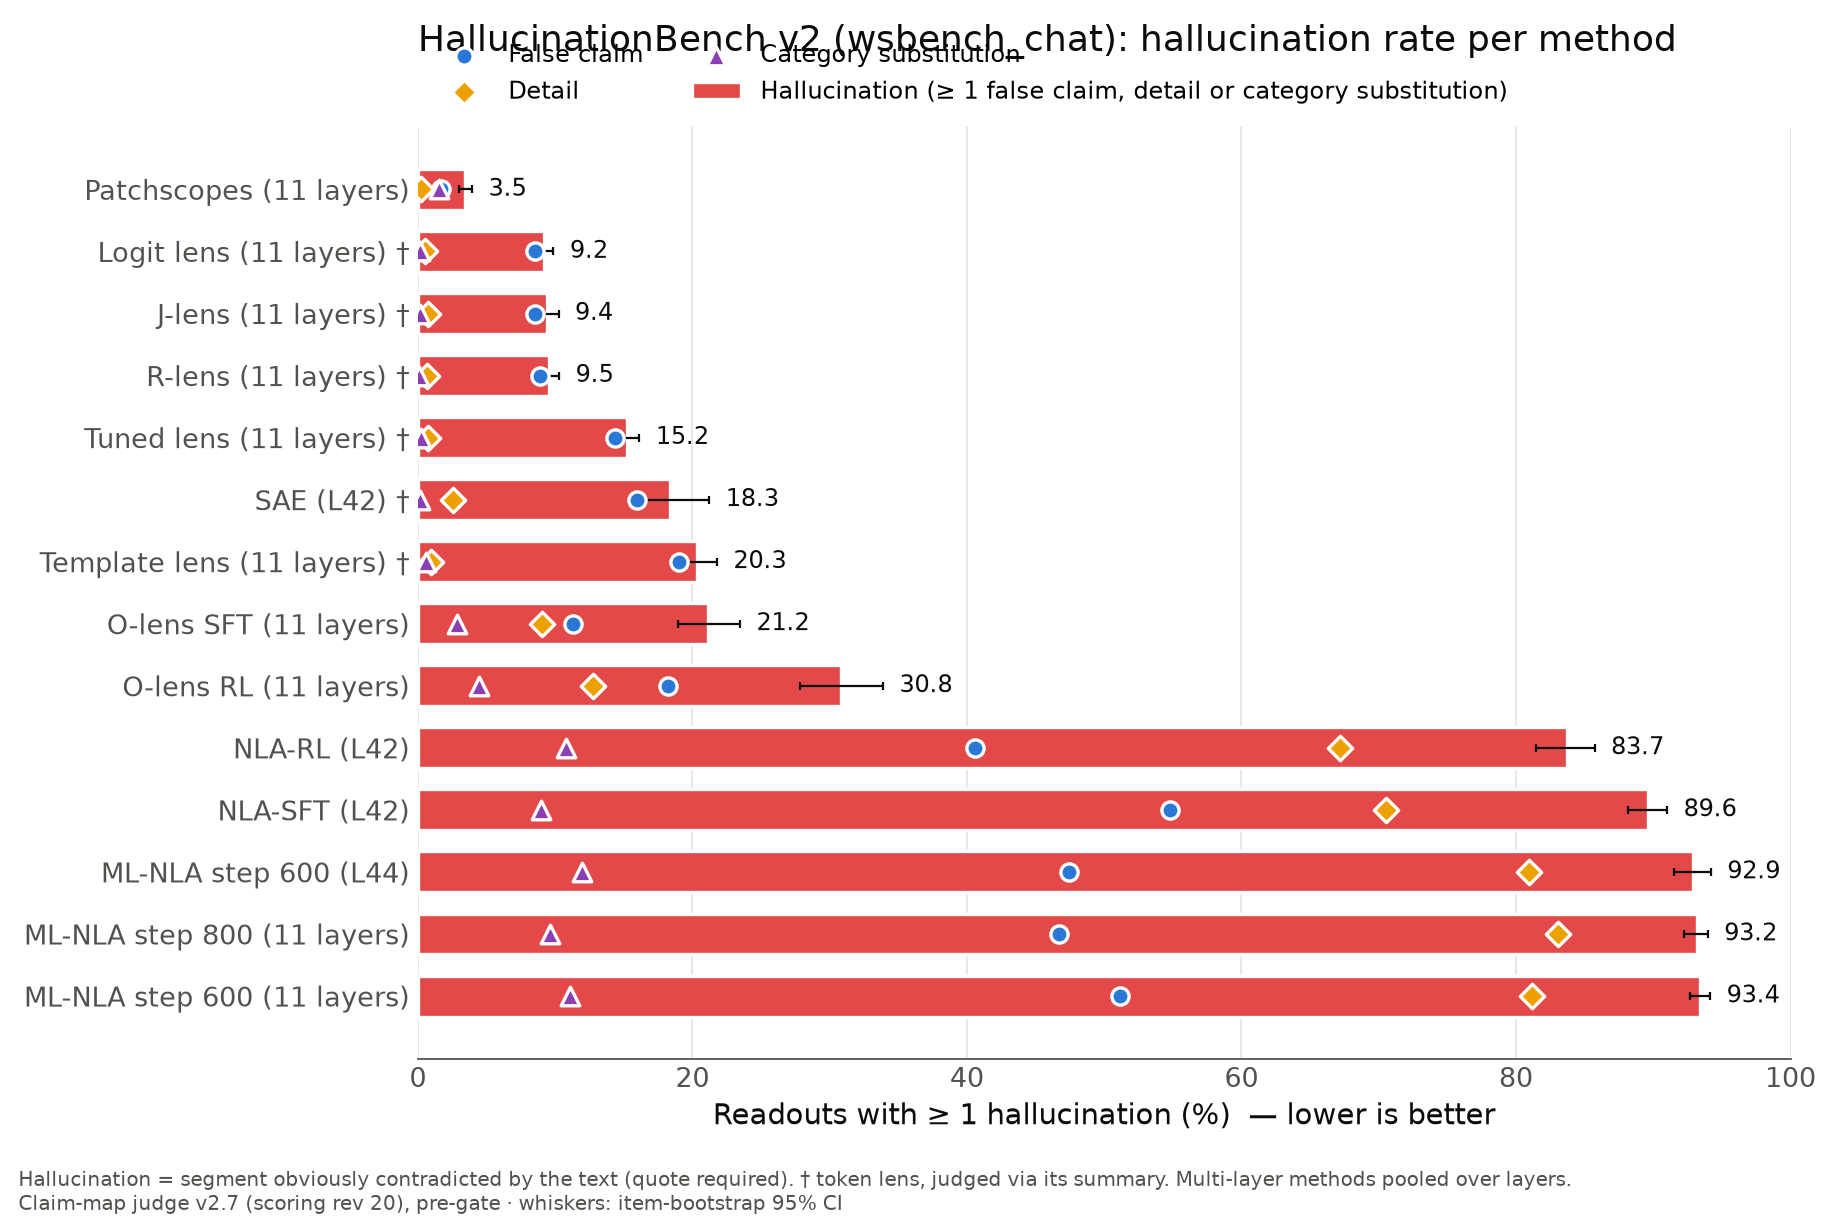
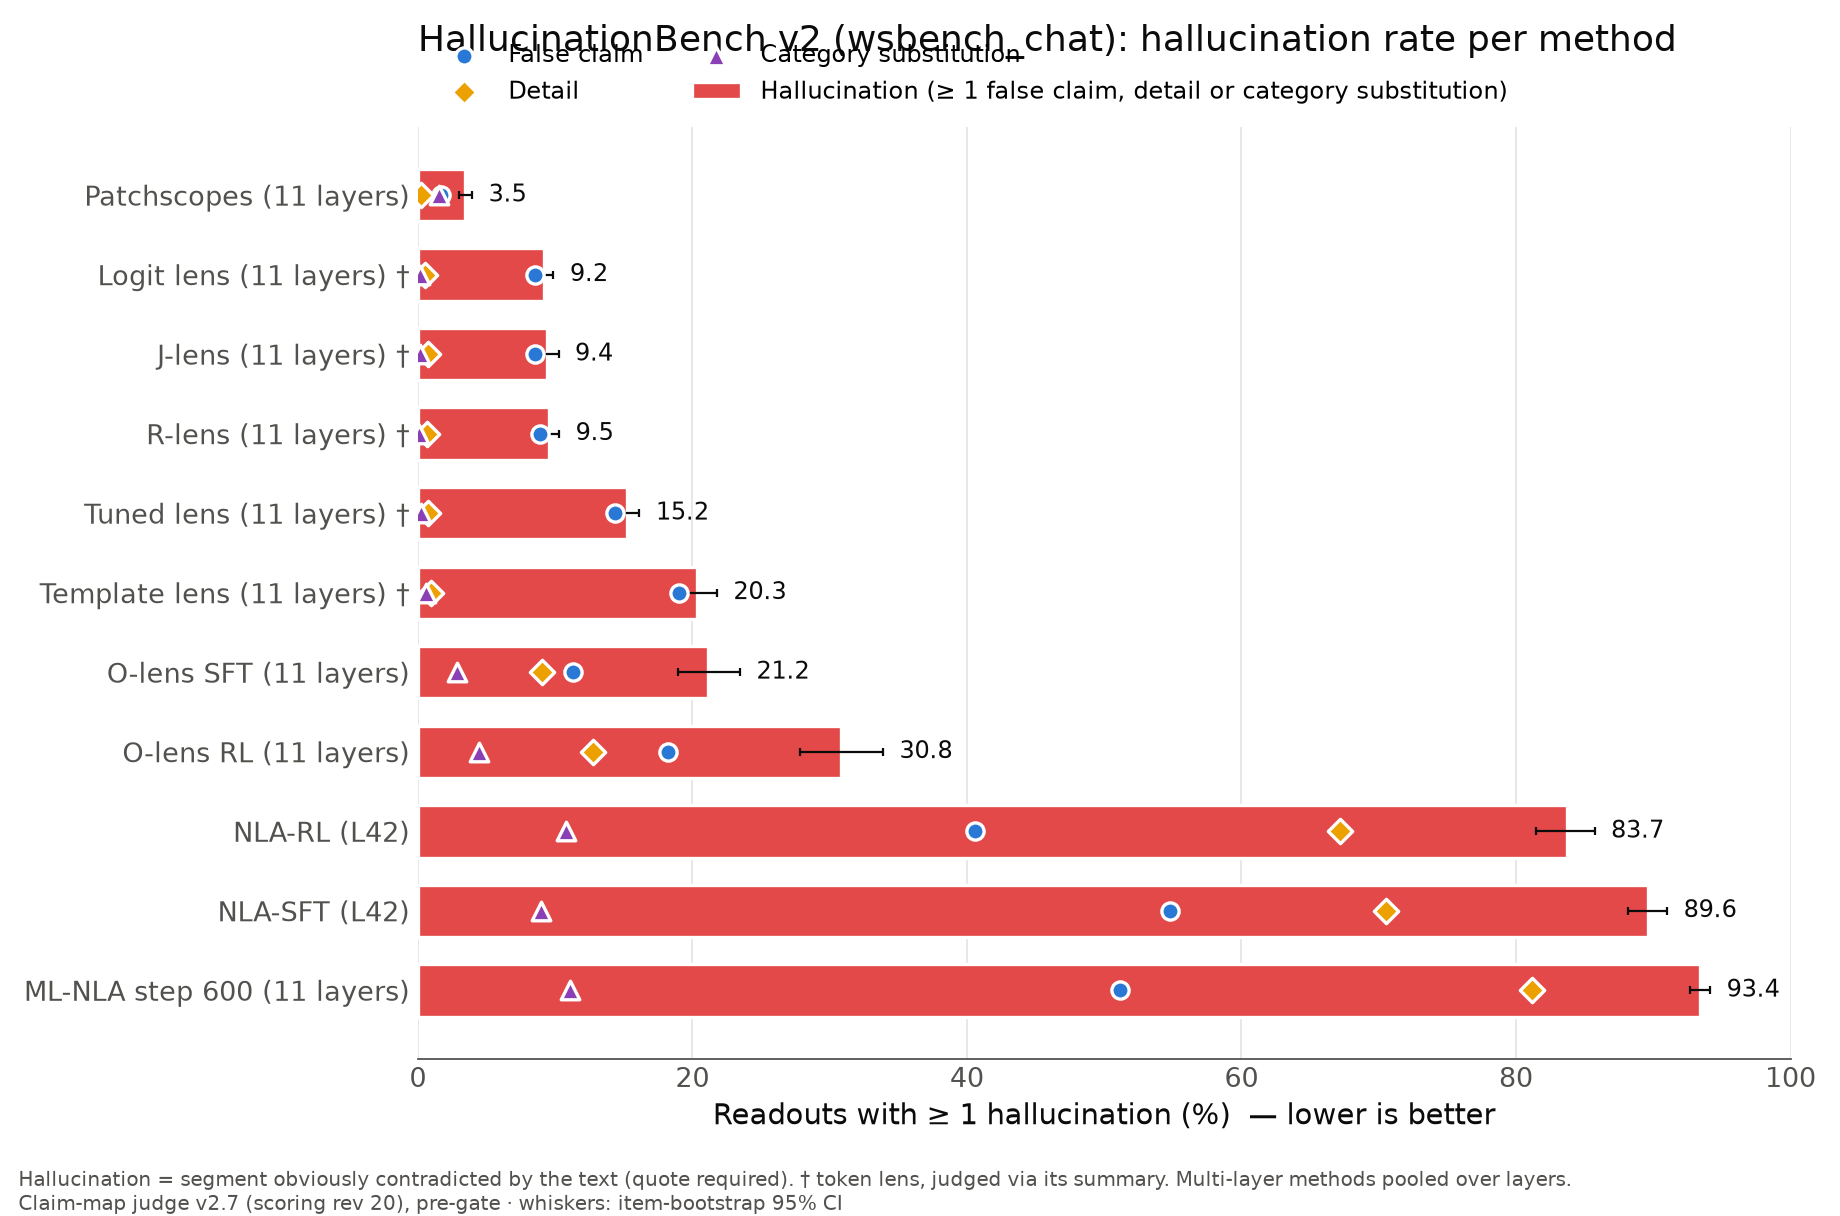
taxonomy-v2: per-layer hallucination plot + v2.7 plot refresh (WIP snapshot, based on pre-#11 taxonomy-v2)

diff --git a/scripts/plot_layer_hallucination.py b/scripts/plot_layer_hallucination.py
@@ -1,0 +1,118 @@
+"""Hallucination per layer for O-lens RL / SFT and ML-NLA step 600 (line plot, two panels).
+
+    uv run python scripts/plot_layer_hallucination.py [--out plots/full_run_v2.7]
+
+Left: readout-level hallucination rate (summary_v2.json by_layer). Right: % of claims that are
+hallucinations (same definition and item-bootstrap CI as plot_claim_hallucination_share.py).
+The single-layer NLA-RL / NLA-SFT arms (L42) are drawn as reference points. Writes
+layers_hallucination.png.
+"""
+
+import argparse
+import json
+import sys
+from pathlib import Path
+
+import matplotlib.pyplot as plt
+
+sys.path.insert(0, str(Path(__file__).resolve().parent))
+from plot_claim_hallucination_share import ratio_ci, tally, with_hallu  # noqa: E402
+
+ROOT = Path(__file__).resolve().parents[1]
+CELLS = ROOT / "outputs" / "wsbench_chat" / "claude-opus-5-5"
+TEXT, MUTED, GRID = "#0b0b0b", "#52514e", "#e6e5e0"
+LINES = [
+    ("s3d-rl600-all11", "O-lens RL", "#2a78d6"),
+    ("s3d-sft251", "O-lens SFT", "#4a3aa7"),
+    ("mlnla-rl600-all11", "ML-NLA step 600", "#eb6834"),
+]
+POINTS = [
+    ("nla-rl-L42", "NLA-RL (L42)", "#e34948", "s"),
+    ("nla-sft-L42", "NLA-SFT (L42)", "#008300", "D"),
+]
+
+
+def readout_rate(block: dict) -> tuple[float, float, float]:
+    r = block["rates"]["hallucination"]["all"]
+    return 100 * r["value"], 100 * r["ci95"][0], 100 * r["ci95"][1]
+
+
+def summary(arm: str) -> dict:
+    return json.loads((CELLS / arm / "summary_v2.json").read_text())
+
+
+def main() -> None:
+    ap = argparse.ArgumentParser()
+    ap.add_argument("--out", default=str(ROOT / "plots" / "full_run_v2.7"))
+    out = Path(ap.parse_args().out)
+    out.mkdir(parents=True, exist_ok=True)
+    fig, axes = plt.subplots(1, 2, figsize=(14, 5.6), dpi=160)
+    panels = [
+        (axes[0], "Readouts with ≥ 1 hallucination (%)", "Readout-level hallucination rate"),
+        (axes[1], "Hallucinated claims as % of all claims", "% of claims that are hallucinations"),
+    ]
+    for arm, name, color in LINES:
+        bl = summary(arm)["by_layer"]
+        layers = sorted(int(k) for k in bl)
+        t = tally(arm)
+        series = [
+            [readout_rate(bl[str(L)]) for L in layers],
+            [ratio_ci(with_hallu(t[L]), 4) for L in layers],
+        ]
+        for (ax, _, _), vals in zip(panels, series, strict=True):
+            v, lo, hi = zip(*vals, strict=True)
+            ax.fill_between(layers, lo, hi, color=color, alpha=0.15, linewidth=0)
+            ax.plot(layers, v, color=color, linewidth=2.2, marker="o", markersize=5, label=name)
+    for arm, name, color, marker in POINTS:
+        vals = [readout_rate(summary(arm)["overall"]), ratio_ci(with_hallu(tally(arm)["all"]), 4)]
+        for (ax, _, _), (v, lo, hi) in zip(panels, vals, strict=True):
+            ax.errorbar(
+                [42],
+                [v],
+                yerr=[[v - lo], [hi - v]],
+                fmt=marker,
+                color=color,
+                markersize=8,
+                markeredgecolor="white",
+                capsize=3,
+                label=name,
+                zorder=4,
+            )
+    for ax, ylabel, title in panels:
+        ax.set_xticks(range(20, 61, 4))
+        ax.set_xlabel("Layer", fontsize=13, color=TEXT)
+        ax.set_ylabel(ylabel + "  — lower is better", fontsize=12, color=TEXT)
+        ax.set_title(title, fontsize=14, color=TEXT, loc="left")
+        ax.set_ylim(0, 100 if ax is axes[0] else 60)
+        ax.yaxis.grid(True, color=GRID)
+        ax.set_axisbelow(True)
+        ax.tick_params(axis="both", labelsize=11, colors=MUTED, length=0)
+        for s in ("top", "right"):
+            ax.spines[s].set_visible(False)
+    handles, labels = axes[0].get_legend_handles_labels()
+    fig.legend(
+        handles,
+        labels,
+        loc="upper center",
+        ncol=5,
+        frameon=False,
+        fontsize=11,
+        bbox_to_anchor=(0.5, 1.0),
+    )
+    fig.text(
+        0.01,
+        0.005,
+        "Hallucination = false claim, detail or category substitution. Bands / whiskers: "
+        "item-bootstrap 95% CI. NLA-RL / NLA-SFT are single-layer (L42) reference points.\n"
+        "Claim-map judge v2.7 (scoring rev 20), pre-gate.",
+        fontsize=9,
+        color=MUTED,
+    )
+    fig.tight_layout(rect=(0, 0.05, 1, 0.93))
+    fig.savefig(out / "layers_hallucination.png")
+    plt.close(fig)
+    print("wrote", out / "layers_hallucination.png")
+
+
+if __name__ == "__main__":
+    main()

diff --git a/scripts/plot_full_run.py b/scripts/plot_full_run.py
@@ -36,7 +36,6 @@ METHODS = [
     ("s3d-sft251", "O-lens SFT (11 layers)", "prose"),
     ("mlnla-rl600-all11", "ML-NLA step 600 (11 layers)", "prose"),
     ("mlnla-rl600-all11@44", "ML-NLA step 600 (L44)", "prose"),
-    ("mlnla-rl2-800-all11", "ML-NLA step 800 (11 layers)", "prose"),
     ("nla-rl-L42", "NLA-RL (L42)", "prose"),
     ("nla-sft-L42", "NLA-SFT (L42)", "prose"),
     ("patchscopes", "Patchscopes (11 layers)", "prose"),
@@ -318,7 +317,7 @@ def main() -> None:
         "By layer: hallucinated share of text",
         out / "layers_share.png",
     )
-    headline(out / "hallucinationbench_per_method.png")
+    headline(out / "hallucinationbench_per_method.png", FULL11_METHODS)
     headline(
         out / "hallucinationbench_per_method_and_layer.png",
         PER_LAYER_METHODS,
@@ -329,6 +328,8 @@ def main() -> None:
 
 
 LAYERS11 = range(20, 61, 4)
+# headline plot: methods pooled over all 11 layers, plus the single-layer NLA baselines (L42)
+FULL11_METHODS = [m for m in METHODS if "(11 layers)" in m[1] or m[0].startswith("nla-")]
 PER_LAYER_METHODS = [
     m for m in METHODS if m[0] not in ("s3d-rl600-all11", "mlnla-rl600-all11@44")
 ] + [

diff --git a/scripts/plot_claim_hallucination_share.py b/scripts/plot_claim_hallucination_share.py
@@ -28,7 +28,6 @@ METHODS = [
     ("s3d-rl600-all11", "O-lens RL (11 layers)", False),
     ("s3d-sft251", "O-lens SFT (11 layers)", False),
     ("mlnla-rl600-all11", "ML-NLA step 600 (11 layers)", False),
-    ("mlnla-rl2-800-all11", "ML-NLA step 800 (11 layers)", False),
     ("nla-rl-L42", "NLA-RL (L42)", False),
     ("nla-sft-L42", "NLA-SFT (L42)", False),
     ("patchscopes", "Patchscopes (11 layers)", False),
@@ -160,8 +159,13 @@ def main() -> None:
         )
 
     rows = [row(f"{lab}{' †' if tok else ''}", tallies[arm]["all"]) for arm, lab, tok in METHODS]
+    # headline: methods pooled over all 11 layers, plus the single-layer NLA baselines (L42)
     bar_plot(
-        rows,
+        [
+            r
+            for r, (arm, lab, _) in zip(rows, METHODS, strict=True)
+            if "(11 layers)" in lab or arm.startswith("nla-")
+        ],
         "% of claims that are hallucinations, per method",
         out / "claims_hallucination_share.png",
         7.8,
